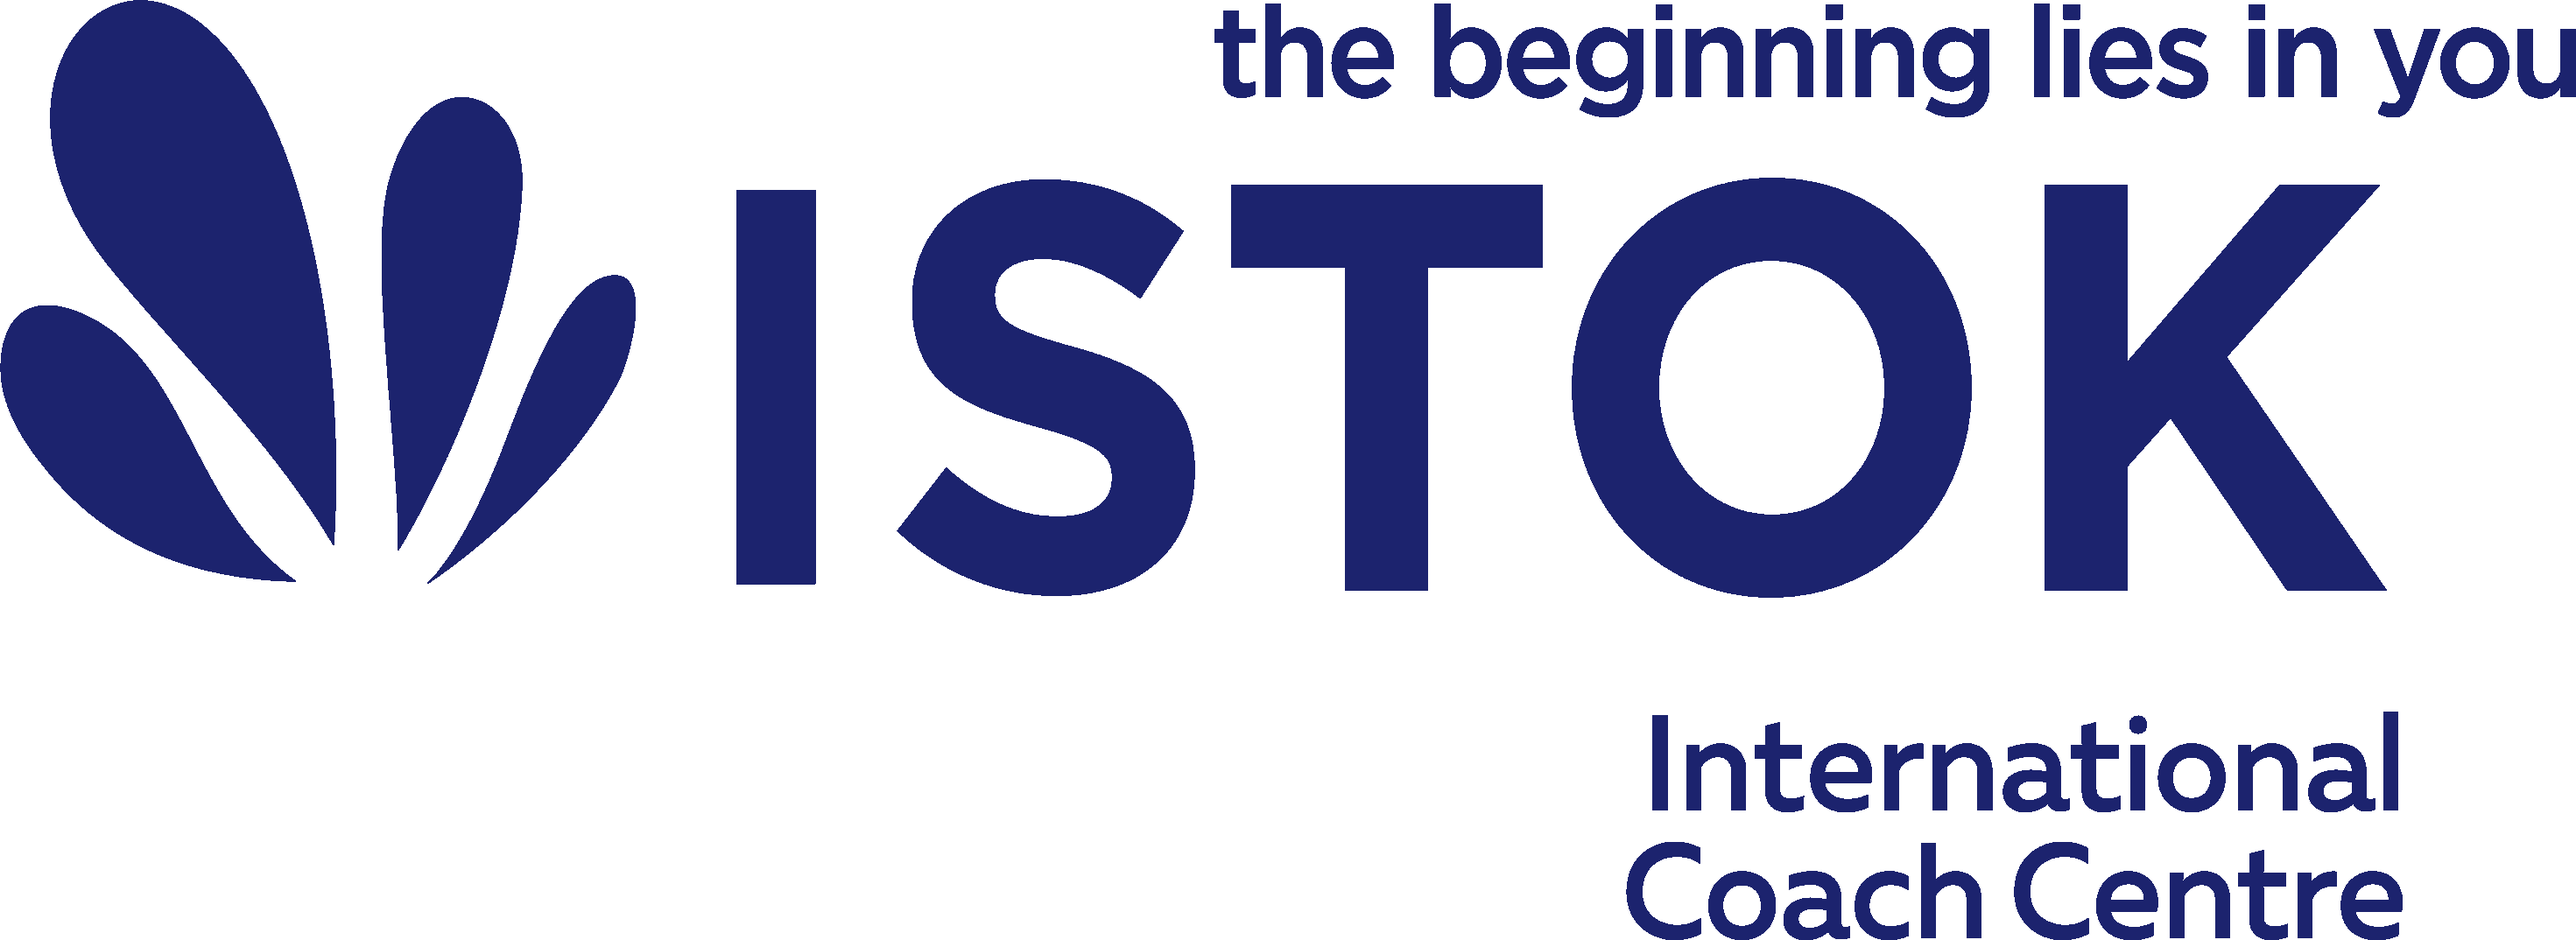
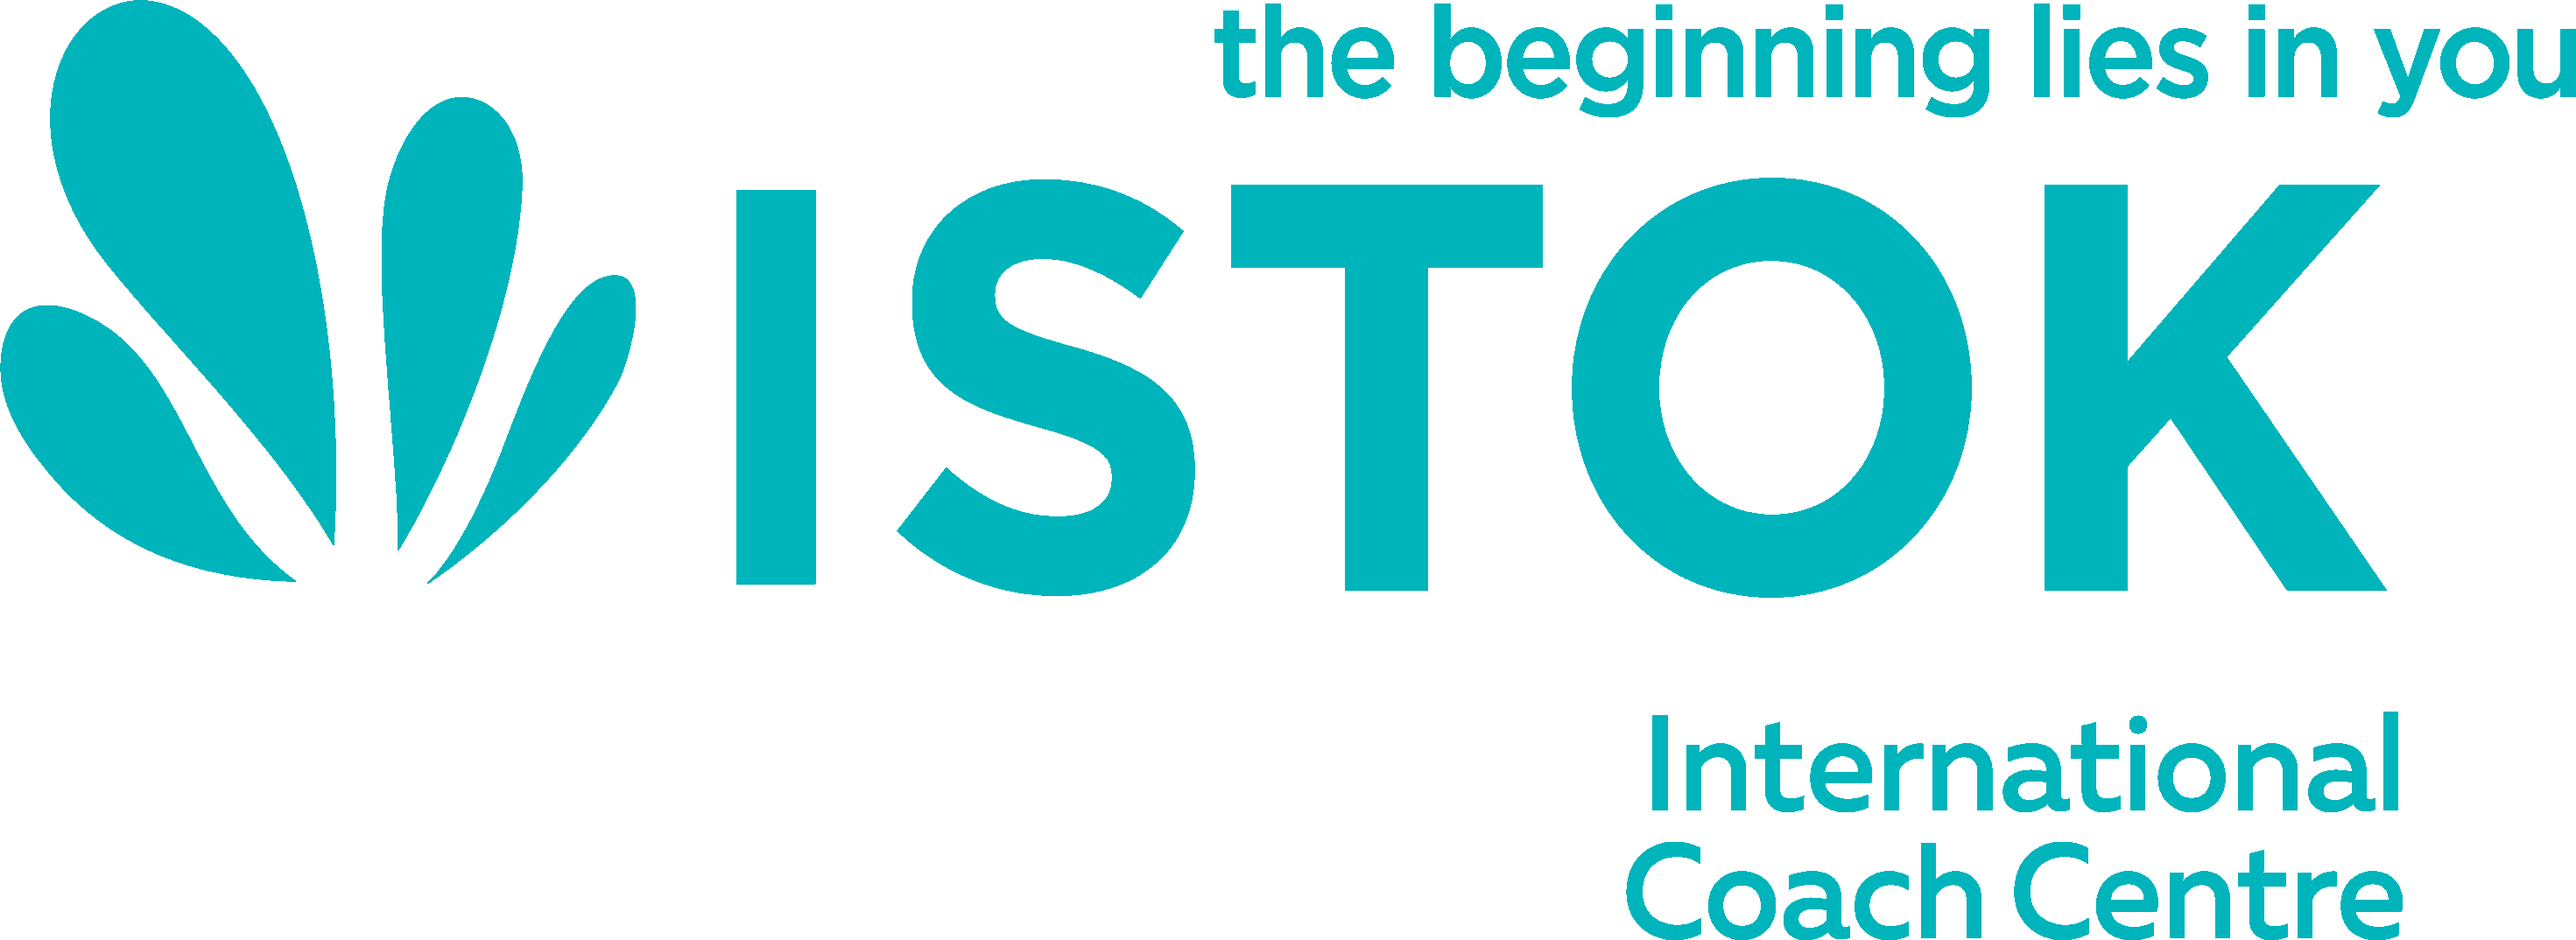
Redesign

diff --git a/src/views/Login.vue b/src/views/Login.vue
@@ -19,13 +19,13 @@
 			</ul>
 			<form v-if="!register" class="login__form">
 				<h1 class="login__heading">{{ login[0] }}</h1>
-				<input v-model="currentLogin" class="login__input" type="text" name="login" :placeholder="login[1]">
+				<input v-model="currentLogin" class="login__input" type="email" name="login" :placeholder="login[1]">
 				<input v-model="currentPassword" class="login__input" type="password" name="password" :placeholder="login[2]">
 				<button @click="signIn()" class="login__submit" type="button">{{ login[3] }}</button>
 			</form>
 			<form v-if="register" class="login__form">
 				<h1 class="login__heading">{{ login[6] }}</h1>
-				<input v-model="currentLogin" class="login__input" type="text" name="login" :placeholder="login[1]">
+				<input v-model="currentLogin" class="login__input" type="email" name="login" :placeholder="login[1]">
 				<input v-model="currentPassword" class="login__input" type="password" name="password" :placeholder="login[2]">
 				<input v-model="currentPassConfirmation" class="login__input" type="password" name="password" :placeholder="login[8]">
 				<button @click="signUp()" class="login__submit" type="button">{{ login[7] }}</button>
@@ -52,7 +52,7 @@
 	
 	.wrapper {
 		padding-top: 20px;
-		background-color: #1C236E;
+		background-color: #00bec1;
 		background-repeat: no-repeat;
 		background-image: url('../assets/wave-blue.png'),
 		url('../assets/istok-white.png');
@@ -122,8 +122,8 @@
 			border-radius: get-vw(7px);
 			padding: get-vw(10px) get-vw(10px) get-vw(10px);
 			border: none;
-			background: rgba($color: #fff, $alpha: .1);
-			color: rgba($color: #fff, $alpha: .3);
+			background: rgba($color: #fff, $alpha: .27);
+			color: rgba($color: #fff, $alpha: .8);
 			font-size: get-vw(14px);
 			margin: get-vw(20px) auto 0;
 			width: get-vw(200px);
@@ -131,13 +131,13 @@
 			
 			&:focus {
 				outline: none;
-				border: get-vw(1px) solid #1C236E;
-				background-color: #fff;
+				border: get-vw(1px) solid #00bec1;
+				background: rgba($color: #fff, $alpha: .6);
 				color: #000;
 			}
 			
 			&::placeholder {
-				color: rgba($color: #fff, $alpha: .3);
+				color: rgba($color: #fff, $alpha: .9);
 				font-size: get-vw(14px);
 			}
 		}

diff --git a/src/views/About.vue b/src/views/About.vue
@@ -31,7 +31,8 @@
 			<a class="about__tel" href="tel:+7421224-31-13">8 (4212) 24-31-13</a>
 			<br>
 			<a class="about__email" href="mailto:info@coachistok.ru">info@coachistok.ru</a>
-			<img class="about__logo" src="../assets/istok-blue.png" alt='Бизнес-тренинги "Исток"'>
+			<!-- <img class="about__logo" src="../assets/istok-blue.png" alt='Бизнес-тренинги "Исток"'> -->
+
 			<div class="about__map">
 				<yandex-map
 					:coords="[48.471545, 135.069701]"
@@ -57,7 +58,6 @@
 	
 	.wrapper {
 		font-family: "Geometria", Arial, Helvetica, sans-serif;
-		text-align: center;
 	}
 	
 	.about {
@@ -71,7 +71,8 @@
 		
 		&__heading {
 			font-family: "Geometria Bold", Arial, Helvetica, sans-serif;
-			font-size: get-vw(28px);
+			text-align: center;
+			font-size: get-vw(26px);
 			margin-top: 0;
 			margin-bottom: get-vw(15px);
 			margin-top: get-vw(20px);		
@@ -106,10 +107,11 @@
 			margin-top: get-vw(25px);
 			text-decoration: none;
 			display: inline-block;
-			color: #1C236E;
+			color: darken(#00bec1, 10%);;
 			font-family: "Geometria Medium", Arial, Helvetica, sans-serif;
 			line-height: normal;
 			font-size: get-vw(14px);
+			margin-left: get-vw(45px);
 			
 			&::before {
 				position: absolute;
@@ -126,6 +128,7 @@
 		
 		&__email {
 			margin-top: get-vw(15px);
+			margin-bottom: get-vw(30px);
 			
 			&::before {
 				background-image: url("../assets/mail.svg");
@@ -147,14 +150,16 @@
 		&__heading {
 			font-size: get-vw(18px);
 			font-family: "Geometria Bold", Arial, Helvetica, sans-serif;
+			text-align: left;
+			margin-left: get-vw(18px);
+			margin-bottom: get-vw(5px);
 		}
 		
 		&__list {
 			@include list-reboot;
       text-align: left;
-			width: 260px;
-			margin-left: auto;
-			margin-right: auto;
+			width: get-vw(260px);
+			margin-left: get-vw(30px);
 		}
 		
 		&__item {
@@ -163,7 +168,7 @@
 		&__link {
 			position: relative;
 			text-decoration: none;
-			color: #1C236E;
+			color: darken(#00bec1, 10%);
 			font-size: get-vw(14px);
 			
 			font-family: Arial, Helvetica, sans-serif;

diff --git a/src/views/Card.vue b/src/views/Card.vue
@@ -352,7 +352,7 @@
 		&__add-btn {
 			appearance: none;
 			display: block;
-			background: #f17e00;
+			background: #4e1284;
 			border: none;
 			padding: get-vw(6px) get-vw(13px) get-vw(6px);
 			font-size: get-vw(12px);
@@ -376,7 +376,7 @@
 		&__view {
 			display: inline-block;
 			vertical-align: top;
-			background: #1C236E;
+			background: #00bec1;
 			border-radius: get-vw(15px);
 			color: #fff;
 			font-size: get-vw(12px);
@@ -385,23 +385,12 @@
 			max-width: get-vw(220px);
 			overflow: hidden;
 			word-wrap: break-word;
-			//   appearance: none;
-			// display: block;
-			// background: #f17e00;
-			// border: none;
-			// padding: get-vw(6px) get-vw(13px) get-vw(7px);
-			// font-size: get-vw(12px);
-			// margin-left: get-vw(49px);
-			// margin-top: get-vw(10px);
-			// color: white;
-			// border-radius: get-vw(100px);
-			// appearance: none;
 			font-family: "Geometria Heavy", Arial, Helvetica, sans-serif;
 			
 			&--answered {
 				border-radius: get-vw(10px);
-				background-color: #E5E5EE;
-				color: #1C236E;
+				background-color: rgba(#E5E5EE, .3);
+				color: darken(#00bec1, 5%);
 				font-family: Arial, Helvetica, sans-serif;
 			}
 			

diff --git a/src/views/Todo.vue b/src/views/Todo.vue
@@ -241,19 +241,19 @@
 		font-family: "Geometria", Arial, Helvetica, sans-serif;
 		border-radius: get-vw(7px);
 		border: none;
-		background-color: #E5E5EE;
-		color: rgba($color: #1C236E, $alpha: .3);
+		background-color: rgba(#E5E5EE, .3);
+		color:  #00bec1;
 		margin: get-vw(25px) get-vw(15px) get-vw(2px);
 		text-align: center;
 		border: get-vw(1px) solid transparent;
 		
 		&::placeholder {
-			color: rgba($color: #1C236E, $alpha: .3);
+			color: #00bec1;
 		}
 		
 		&:focus {
 			outline: none;
-			border: get-vw(1px) solid #1C236E;
+			border: get-vw(1px) solid #00bec1;
 			background-color: #fff;
 			color: #000;
 		}
@@ -280,7 +280,7 @@
 		transform: translateY(-50%);
 		width: get-vw(25px);
 		height: get-vw(25px);
-		border: get-vw(1px) solid #1F236D;
+		border: get-vw(1px) solid #00bec1;
 		border-radius: 50%;
 		margin: auto 0;
 	}
@@ -293,7 +293,7 @@
 	}
 	
 	.toggle:checked + .toggle-checkbox {
-		background-color: #1F236D;
+		background-color: #00bec1;
 	}
 	
 	.toggle:checked + .toggle-checkbox::after {

diff --git a/src/views/OrderDeck.vue b/src/views/OrderDeck.vue
@@ -78,7 +78,7 @@
     border-radius: get-vw(7px);
     padding: get-vw(10px) get-vw(10px) get-vw(10px);
     border: none;
-    background: rgba(#1C236E, .1);
+    background: rgba(#00bec1, .1);
     color: rgba(#000, .3);
     font-size: get-vw(14px);
     margin: get-vw(20px) auto 0;
@@ -89,7 +89,7 @@
 
     &:focus {
       outline: none;
-      border: get-vw(1px) solid  #1C236E;
+      border: get-vw(1px) solid  #00bec1;
       background-color: #fff;
       color: #000;
     }
@@ -144,7 +144,7 @@
     border: none;
     background: 0;
     font-size: get-vw(14px);
-    color: #1C236E;
+    color: #00bec1;
     font-family: 'Geometria Bold', Arial, Helvetica, sans-serif;
 
     &::before {
@@ -154,7 +154,7 @@
       content: "";
       width: get-vw(24px);
       height: get-vw(24px);
-      background-color: #1C236E;
+      background-color: #00bec1;
       border-radius: 50%;
       background-image: url("../assets/deck-arrow-left.svg");
       background-repeat: no-repeat;

diff --git a/src/views/Start.vue b/src/views/Start.vue
@@ -59,7 +59,7 @@ export default {
   margin-top: 5%;
   text-align: center;
   font-size: get-vw(50px);
-  color: #1F236D;
+  color: #00bec1;
 }
 
 .languages {
@@ -87,13 +87,13 @@ export default {
   border: none;
   font-size: get-vw(25px);
   font-weight: bold;
-  background-color: #1F236D;
+  background-color: #00bec1;
 }
 
 .choose {
   text-align: center;
   font-size: get-vw(28px);
-  color: #1F236D;
+  color: #00bec1;
 }
 
 .start {
@@ -113,7 +113,7 @@ export default {
   position: absolute;
   width: get-vw(2000px);
   height: get-vw(1000px);
-  background-color: #1F236D;
+  background-color: #00bec1;
   transform: rotate(-10deg) translateX(-40%);
 }
 

diff --git a/src/views/Menu.vue b/src/views/Menu.vue
@@ -28,7 +28,7 @@
 @import "../scss/mixins";
 
 .wrapper {
-  background-color: #1C236E;
+  background-color: #00bec1;
   background-image: url('../assets/wave-blue.png'),
                     url('../assets/istok-white.png');
   background-repeat: no-repeat;

diff --git a/src/components/Header.vue b/src/components/Header.vue
@@ -13,7 +13,7 @@
 		position: sticky;
 		top: 0;
 		z-index: 110;
-		background: #1C236E;
+		background: #00bec1;
 		height: calc(13.75vw + 20px);
 		
 		&__heading {
